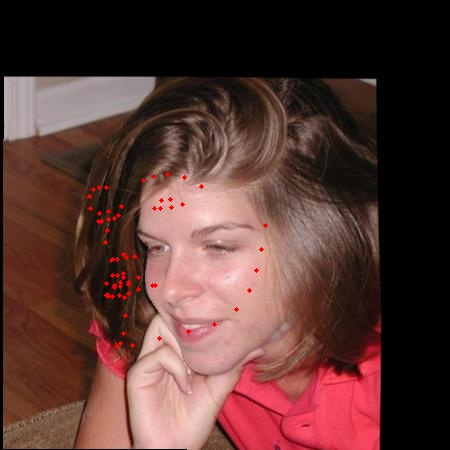
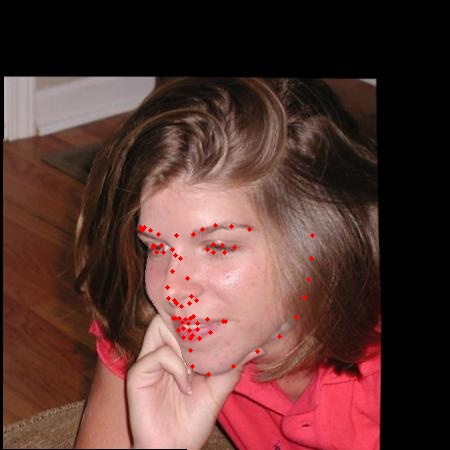
Fixing Morphable Model transformation

diff --git a/try.py b/try.py
@@ -50,22 +50,61 @@ keypoints = _load(osp.join(d, 'keypoints_sim.npy'))
 
 def draw_landmarks_(image_original, pt2d):
     image = image_original.copy()
-    X, y, _ = image.shape
     for point in pt2d:
-        cv2.circle(image, (X-int(round(point[0])), y-int(round(point[1]))), 2, (0, 0, 1), -1)
+        cv2.circle(image, (int(round(point[0])), int(round(point[1]))), 2, (0, 0, 1), -1)
     return image
 
 def plot_landmarks_try(image, pts):
-    pt2d = pts.T
-    image = draw_landmarks_(image, pt2d)
+    image = draw_landmarks_(image, pts)
     cv2.imwrite(f"output_landmarks_try.jpg", image*255)
     # import matplotlib.pyplot as plt
     # fig = plt.figure(figsize = (10, 7))
     # plt.imshow(image)
     # plt.xlabel("0")
     # plt.ylabel("1")
-    # plt.scatter(pt2d[:, 0], pt2d[:, 1], color = "red")
+    # plt.scatter(pts[:, 0], pts[:, 1], color = "red")
     # plt.savefig('foo.png')
+
+def get_transform_matrix(s, angles, t, height):
+    """
+    :param s: scale
+    :param angles: [3] rad
+    :param t: [3]
+    :return: 4x4 transmatrix
+    """
+    x, y, z = angles[0], angles[1], angles[2]
+
+    Rx = np.array([[1, 0, 0],
+                   [0, cos(x), sin(x)],
+                   [0, -sin(x), cos(x)]])
+
+    Ry = np.array([[cos(y), 0, -sin(y)],
+                   [0, 1, 0],
+                   [sin(y), 0, cos(y)]])
+                   
+    Rz = np.array([[cos(z), sin(z), 0],
+                   [-sin(z), cos(z), 0],
+                   [0, 0, 1]])
+    # rotate
+    R = Rx.dot(Ry).dot(Rz)
+    R = R.astype(np.float32)
+    T = np.zeros((4, 4))
+    T[0:3, 0:3] = R
+    T[3, 3] = 1.
+    # scale
+    S = np.diagflat([s, s, s, 1.])
+    T = S.dot(T)
+    # offset move
+    M = np.diagflat([1., 1., 1., 1.])
+    M[0:3, 3] = t.astype(np.float32)
+    T = M.dot(T)
+    # revert height
+    # x[:,1]=height-x[:,1]
+    H = np.diagflat([1., 1., 1., 1.])
+    H[1, 1] = -1.0
+    H[1, 3] = height
+    T = H.dot(T)
+    return T.astype(np.float32)
 
 # PCA basis for shape, expression, texture
 w_shp = _load(osp.join(d, 'w_shp_sim.npy'))
@@ -97,7 +136,6 @@ w_exp_base = w_exp[keypoints]
 
 # print('-----------------------------------------------')
 #label = label * param_std + param_mean
-f, R, t, alpha_exp, alpha_Shape = pose_3DMM_to_fPt(label)
 
 # print(t.shape)
 # print("alpha_exp.shape: ", alpha_exp.shape)
@@ -105,7 +143,6 @@ f, R, t, alpha_exp, alpha_Shape = pose_3DMM_to_fPt(label)
 
 # vertex = f*R @ (u_base +\
 #      w_shp_base @ alpha_Shape.T + w_exp_base @ alpha_exp.T).reshape(3, -1, order='F') + t
-vertex = f*R@(u_base).reshape(3, -1, order='F') + t
 
 # print('-----------------------------------------------')
 # print(vertex.shape)
@@ -113,4 +150,28 @@ vertex = f*R@(u_base).reshape(3, -1, order='F') + t
 # print(vertex.T)
 # print()
 # print(label_to_pt2d(label))
-plot_landmarks_try(image, vertex)
+
+# vertex = u_base +\
+#      w_shp_base @ alpha_Shape.T + w_exp_base @ alpha_exp.T
+import scipy.io as sio
+
+bfm_info = sio.loadmat('../../Datasets/300W-LP/300W_LP/AFW/AFW_134212_1_2.mat')
+
+[height, _, _] = image.shape
+pose_para = bfm_info['Pose_Para'].T.astype(np.float32)
+shape_para = bfm_info['Shape_Para'][0:40].astype(np.float32)
+exp_para = bfm_info['Exp_Para'][0:10].astype(np.float32)
+
+vertices = u_base + w_shp_base.dot(shape_para) + w_exp_base.dot(exp_para)
+vertices = np.reshape(vertices, [int(3), int(len(vertices) / 3)], 'F').T
+
+s = pose_para[-1, 0]
+angles = pose_para[:3, 0]
+t = pose_para[3:6, 0]
+
+T_bfm = get_transform_matrix(s, angles, t, height)
+temp_ones_vec = np.ones((len(vertices), 1))
+homo_vertices = np.concatenate((vertices, temp_ones_vec), axis=-1)
+image_vertices = homo_vertices.dot(T_bfm.T)[:, 0:3]
+
+plot_landmarks_try(image, image_vertices)
